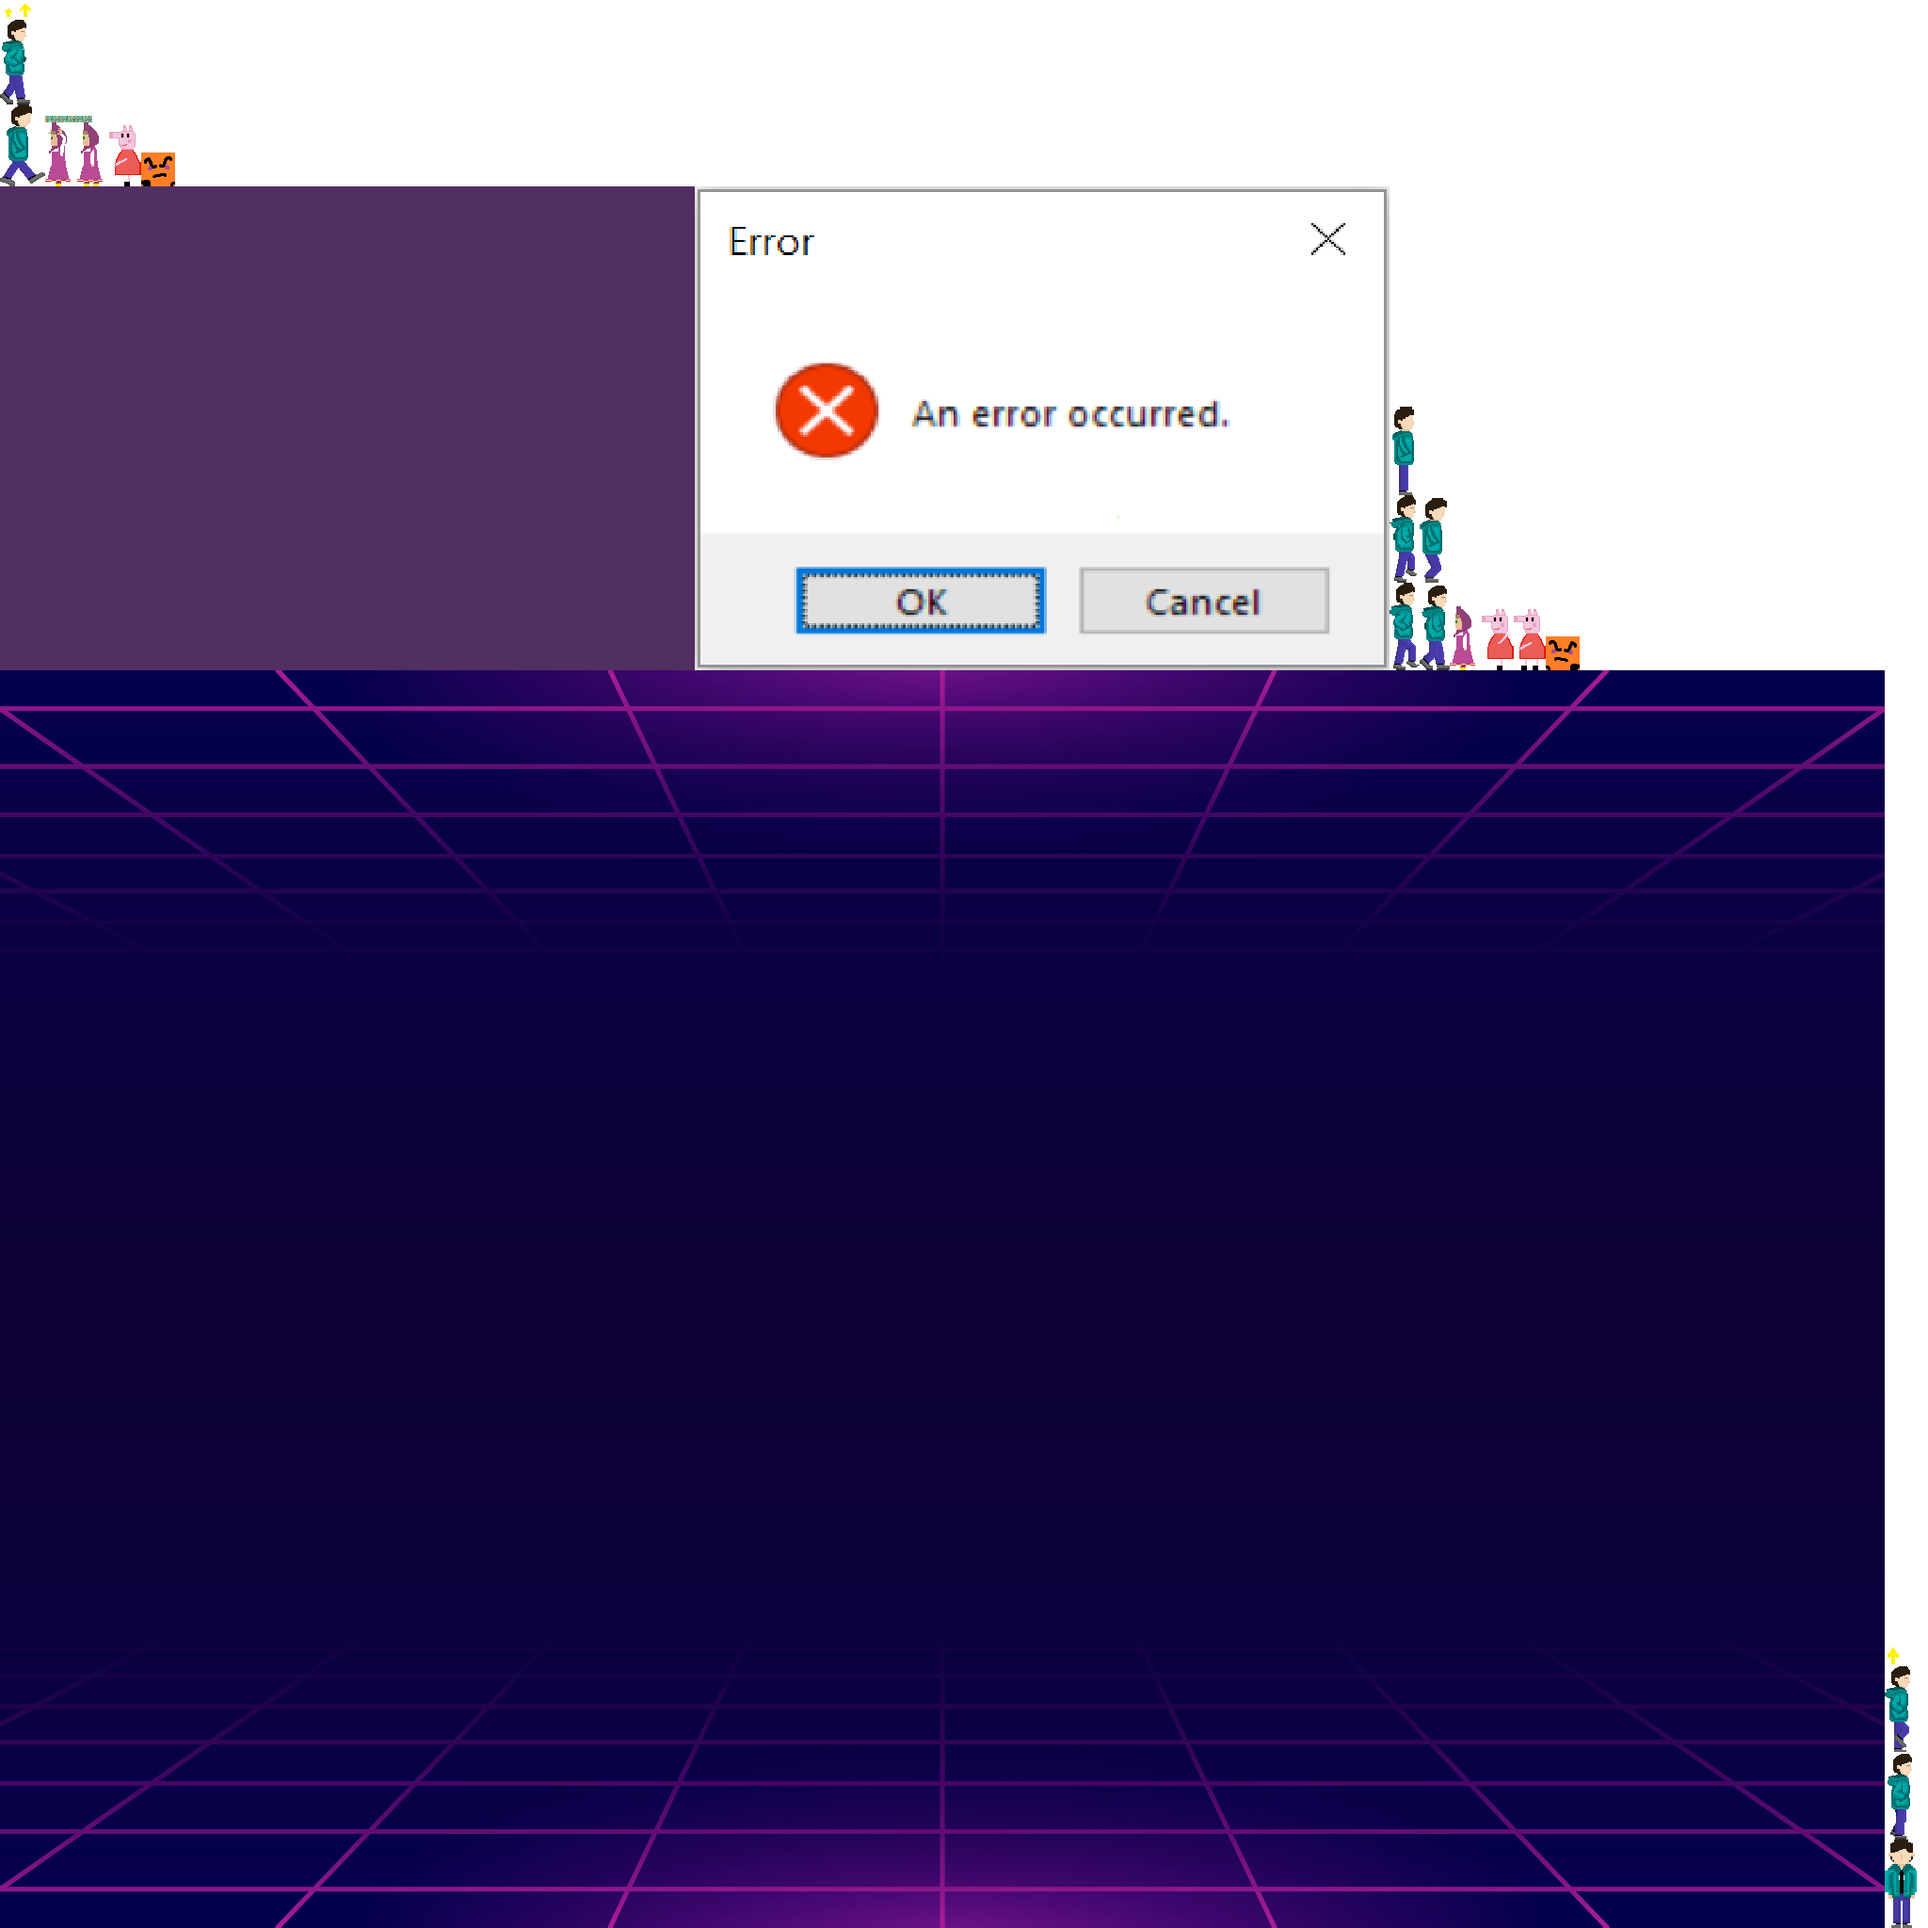
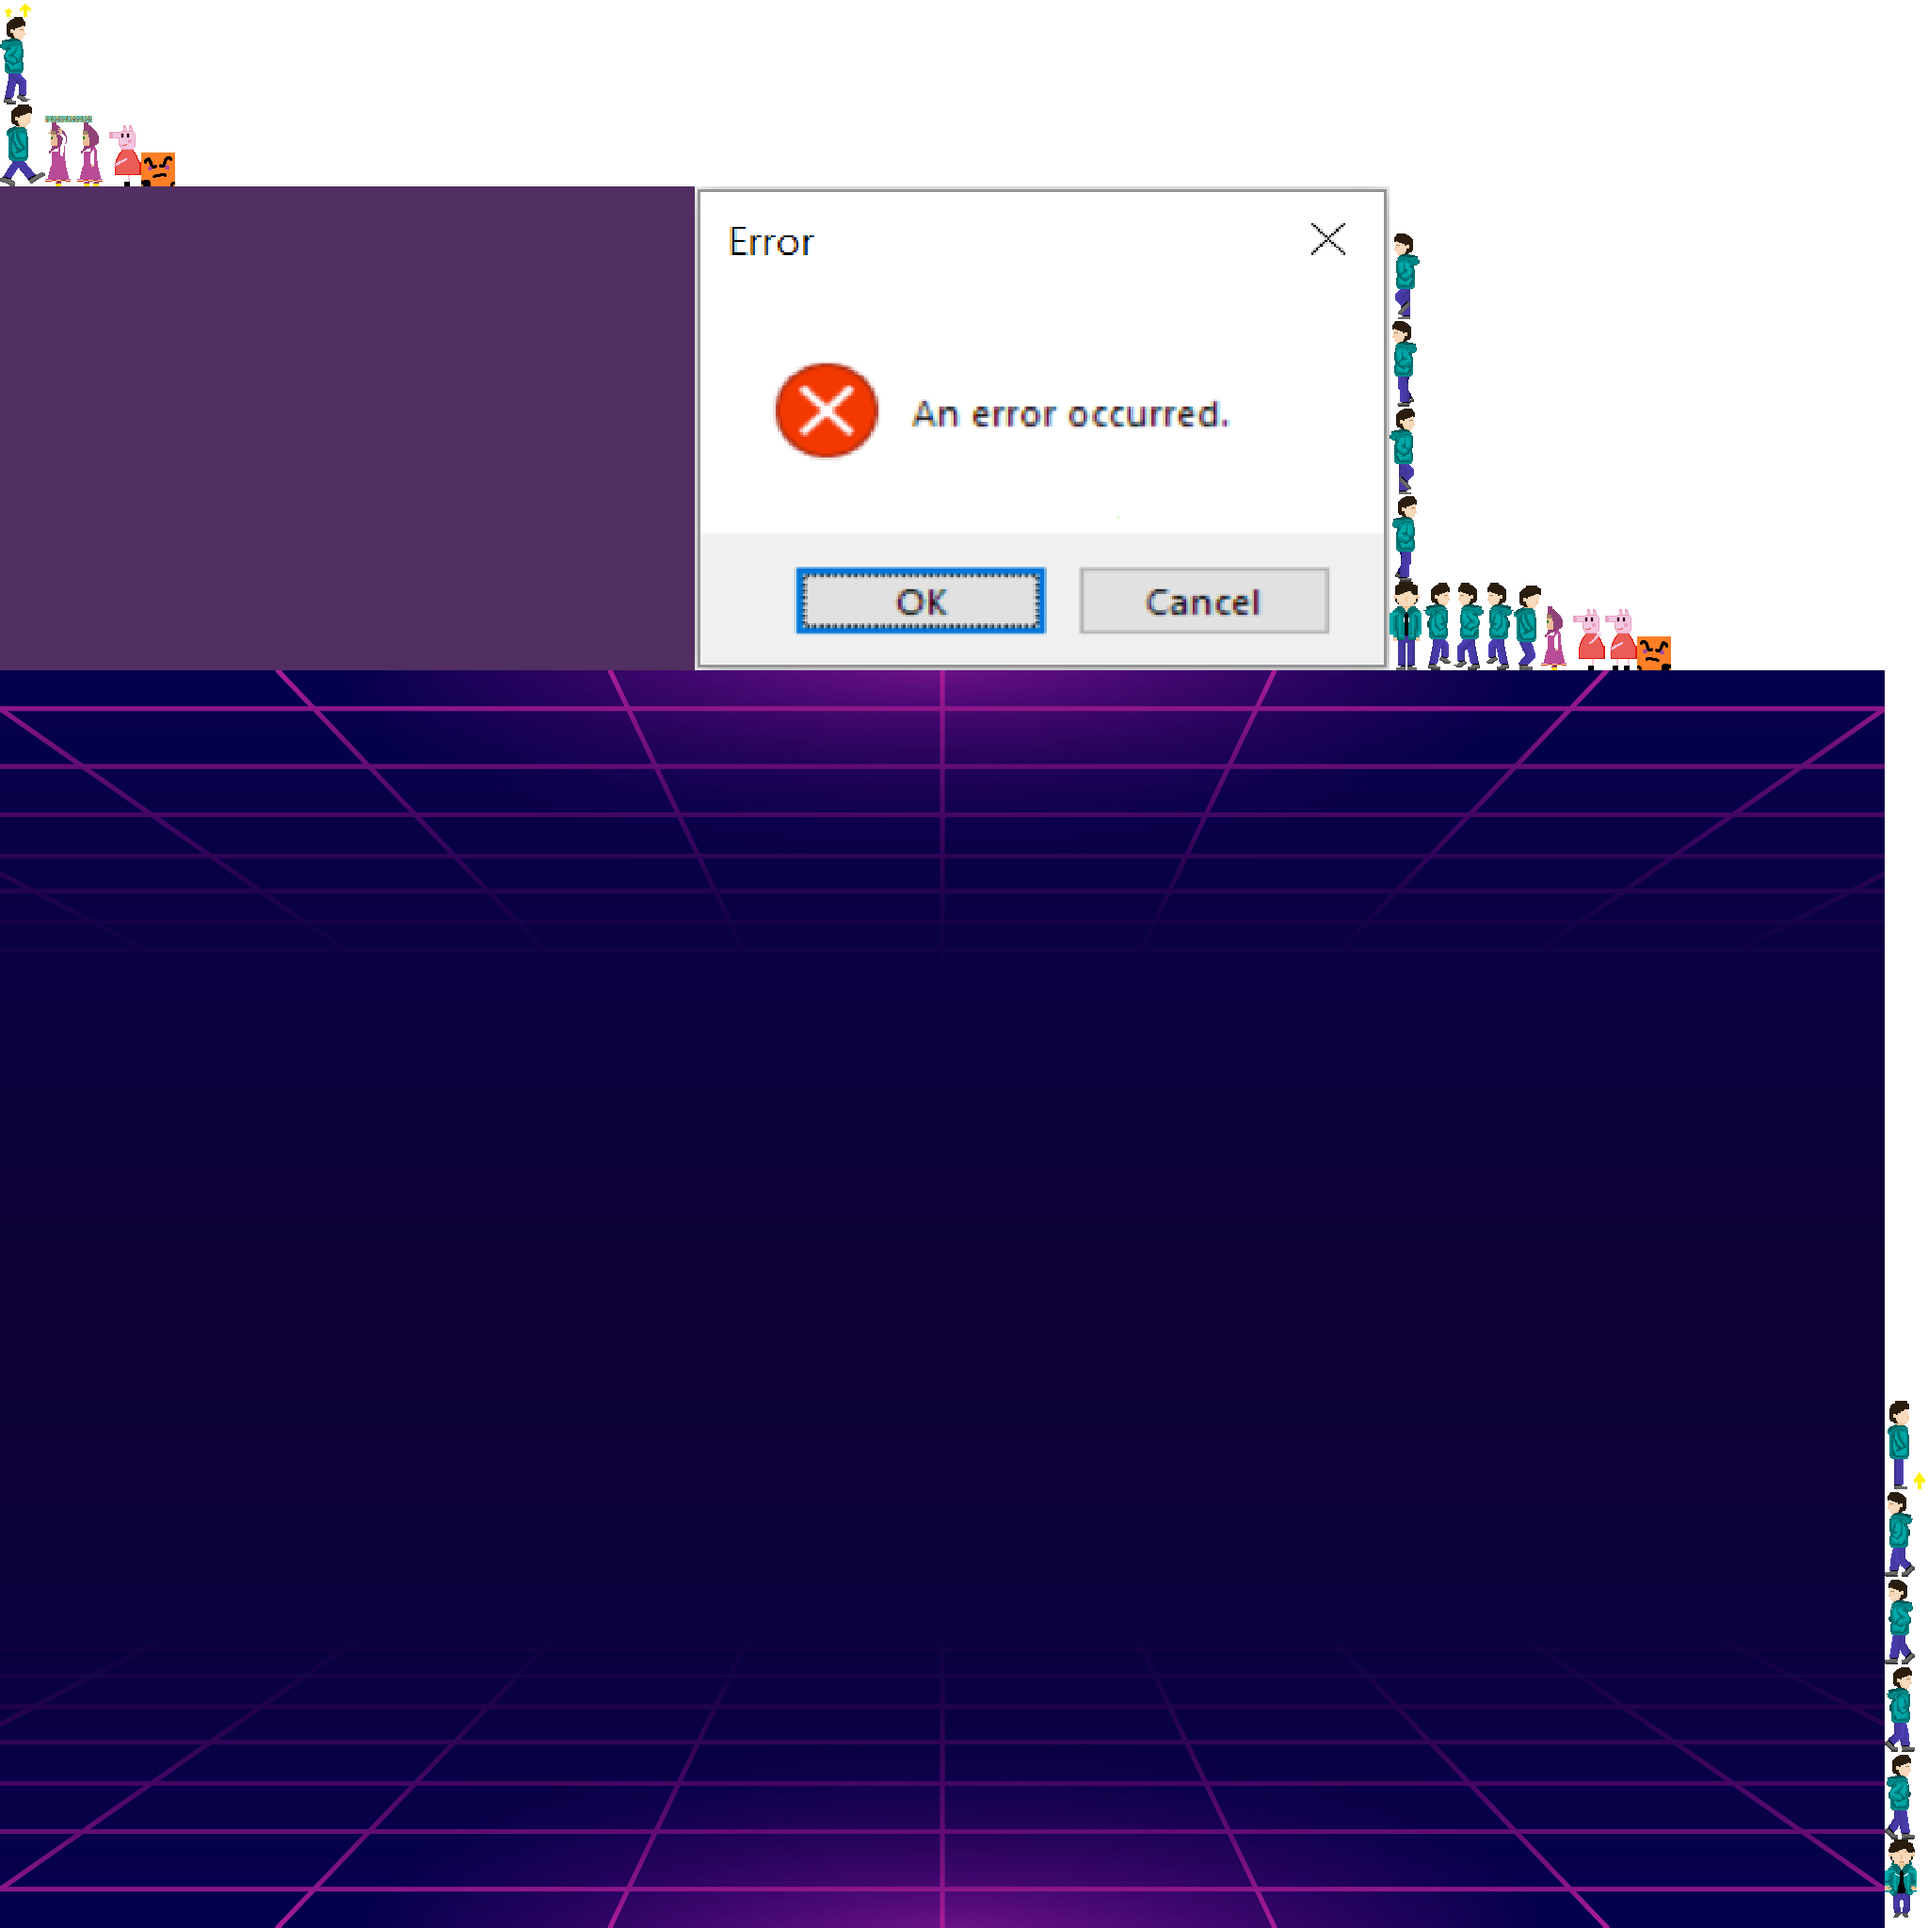
Нормальное управление и анимация ГГ

Changed region(s): [[0.7188, 0.125, 0.875, 0.3438], [0.9688, 0.7188, 1.0, 1.0], [0.0, 0.0, 0.0312, 0.0625]]

diff --git a/core/src/net/game/Entity/Systems/PlayerControlSystem.java b/core/src/net/game/Entity/Systems/PlayerControlSystem.java
@@ -35,7 +35,7 @@ public class PlayerControlSystem extends IteratingSystem{
         player.cam.position.y = b2body.body.getPosition().y;
 
 
-        if(b2body.body.getLinearVelocity().y > 0 && state.get() != StateComponent.STATE_FALLING){
+        if(b2body.body.getLinearVelocity().y < 0 && state.get() != StateComponent.STATE_FALLING){
             state.set(StateComponent.STATE_FALLING);
             System.out.println("setting to Falling");
         }
@@ -57,13 +57,13 @@ public class PlayerControlSystem extends IteratingSystem{
 
         // make player teleport higher
         if(player.onSpring){
-            //b2body.body.applyLinearImpulse(0, 175f, b2body.body.getWorldCenter().x,b2body.body.getWorldCenter().y, true);
+            b2body.body.applyLinearImpulse(0, 175f, b2body.body.getWorldCenter().x,b2body.body.getWorldCenter().y, true);
 
             //lvlFactory.makeParticleEffect(ParticleEffectManager.SMOKE, b2body.body.getPosition().x, b2body.body.getPosition().y);
 
             // move player
             b2body.body.setTransform(b2body.body.getPosition().x, b2body.body.getPosition().y+ 10, b2body.body.getAngle());
-            //state.set(StateComponent.STATE_JUMPING);
+            state.set(StateComponent.STATE_JUMPING);
             player.onSpring = false;
         }
 
@@ -79,7 +79,7 @@ public class PlayerControlSystem extends IteratingSystem{
             b2body.body.setLinearVelocity(MathUtils.lerp(b2body.body.getLinearVelocity().x, 0, 0.1f),b2body.body.getLinearVelocity().y);
         }
 
-        if(controller.up &&
+        if(controller.up && state.get()!= StateComponent.STATE_JUMPING &&
                 (state.get() == StateComponent.STATE_NORMAL || state.get() == StateComponent.STATE_MOVING_LEFT ||state.get() == StateComponent.STATE_MOVING_RIGHT)){
             b2body.body.applyLinearImpulse(0, 12f * b2body.body.getMass() , b2body.body.getWorldCenter().x,b2body.body.getWorldCenter().y, true);
             state.set(StateComponent.STATE_JUMPING);

diff --git a/core/src/net/game/Utils/LevelFactory.java b/core/src/net/game/Utils/LevelFactory.java
@@ -305,12 +305,14 @@ public class LevelFactory {
         // set object position (x,y,z) z used to define draw order 0 first drawn
 
         Animation anim = new Animation(0.2f,atlas.findRegions("Nick_walk"));
+        Animation flippedAnim = new Animation(0.2f,atlas.findRegions("Nick_walk_left"));
+
         anim.setPlayMode(Animation.PlayMode.LOOP);
         animCom.animations.put(StateComponent.STATE_NORMAL, new Animation(0, atlas.findRegion("Nick_front")));
         animCom.animations.put(StateComponent.STATE_MOVING_RIGHT, anim);
-        animCom.animations.put(StateComponent.STATE_MOVING_LEFT, anim); //todo развернуть анимацию
-        animCom.animations.put(StateComponent.STATE_JUMPING, new Animation(2, atlas.findRegions("Nick_jump")));
-        animCom.animations.put(StateComponent.STATE_FALLING, anim);
+        animCom.animations.put(StateComponent.STATE_MOVING_LEFT, flippedAnim);
+        animCom.animations.put(StateComponent.STATE_JUMPING, new Animation(2f, atlas.findRegions("Nick_jump")));
+        animCom.animations.put(StateComponent.STATE_FALLING, new Animation(0f, atlas.findRegions("Nick_falling")));
         animCom.animations.put(StateComponent.STATE_HIT, anim);
 
 

diff --git a/core/src/net/game/Entity/Systems/AnimationSystem.java b/core/src/net/game/Entity/Systems/AnimationSystem.java
@@ -39,6 +39,7 @@ public class AnimationSystem extends IteratingSystem {
 
         state.time += deltaTime;
     }
+    /*
     public void flipAnimation(Entity entity, float deltaTime){
         AnimationComponent ani = am.get(entity);
         StateComponent state = sm.get(entity);
@@ -49,5 +50,7 @@ public class AnimationSystem extends IteratingSystem {
             tex.region = r;
         }
     }
+
+     */
 }
 
